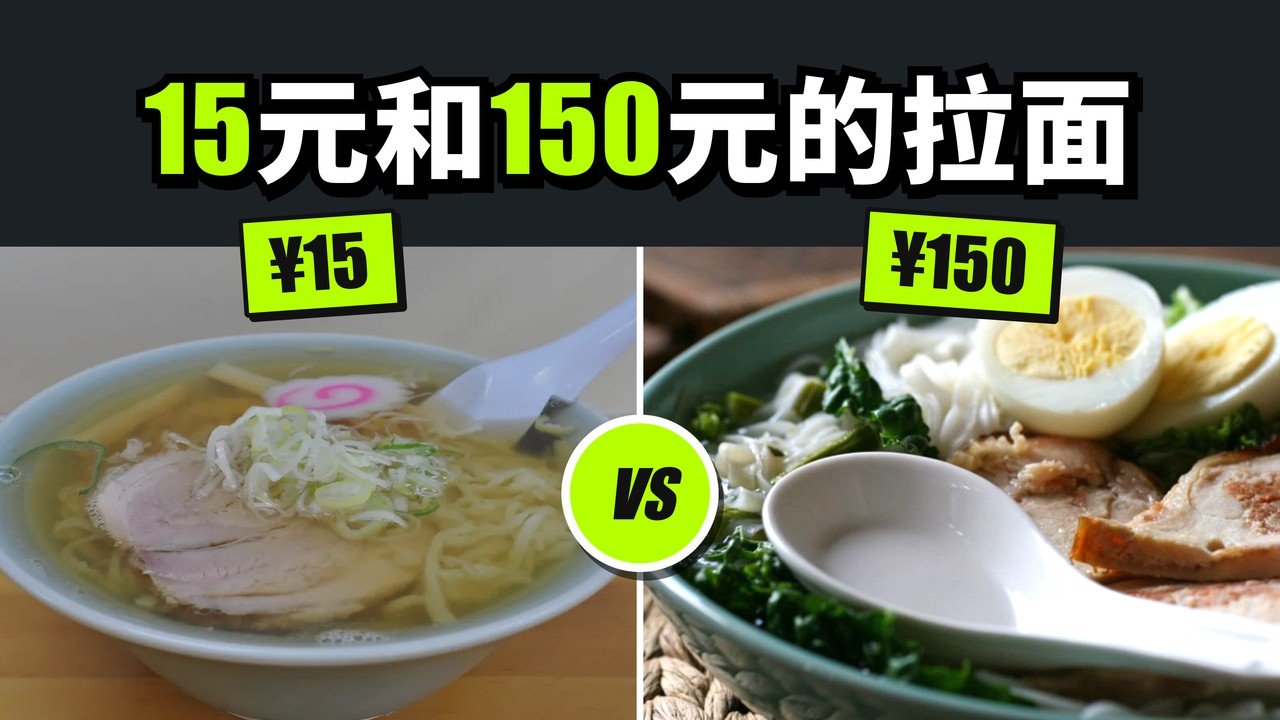
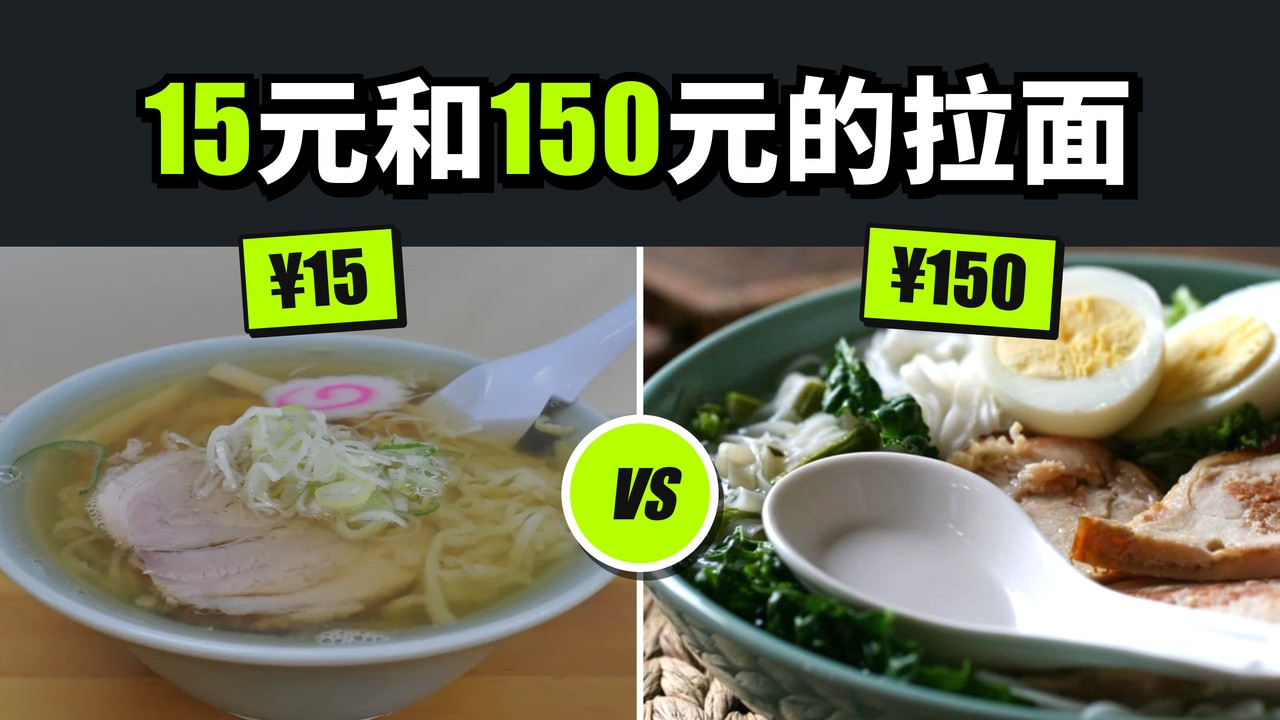
fix(genres): size labels for every script and clear the tilt
The label width estimate treated Korean and emoji as narrow Latin, so two
8-character Korean labels still overlapped. Every character outside ASCII
now counts as wide, emoji wider, and the widest Latin letters as a full em.
Tilted price tags sit low enough that their raised end clears the headline.
A Chromium test now measures the rendered labels for Korean, emoji, wide
Latin, and Chinese instead of trusting the estimate.

Changed region(s): [[0.6562, 0.275, 0.8438, 0.4889], [0.1875, 0.275, 0.3438, 0.4889]]

diff --git a/src/genres/genres.test.ts b/src/genres/genres.test.ts
@@ -343,6 +343,108 @@ describe('cover type rendering', () => {
         }
     }, 240_000);
 
+    // 标签字号是按字宽估出来的。估算对不对，只有真渲染出来量外框才知道：韩文、emoji、最宽的
+    // 西文字母、汉字都要落在自己那半边看得见的地方，两个标签不互压，也不压平台界面。
+    it('keeps rendered labels inside their panels for every script', async () => {
+        const browser = await chromium.launch({ headless: true });
+        try {
+            for (const kind of ['versus', 'before-after'] as const) {
+                for (const labels of [
+                    ['가나다라마바사아', '가나다라마바사아'],
+                    ['WWWWWWWW', '😀😀😀😀😀😀😀😀'],
+                    ['一二三四五六七八', '¥1,500,00'],
+                ] as [string, string][]) {
+                    const template = genreTemplate(kind, {
+                        text: '对比',
+                        fonts: FONTS,
+                        photos: [photo(paths[0] as string), photo(paths[1] as string)],
+                        labels,
+                    });
+                    const pages: { html: string; width: number; height: number }[] = [];
+                    const recording: CoverRenderer = {
+                        ...renderer,
+                        screenshot: async (page) => {
+                            pages.push(page);
+                            return renderer.screenshot(page);
+                        },
+                    };
+                    const targets = (['youtube', 'douyin', 'x'] as const).map((platform) => ({
+                        platform,
+                        outputPath: join(directory, `labels-${kind}-${platform}.png`),
+                    }));
+                    await composeCovers({
+                        renderer: recording,
+                        template,
+                        text: '对比',
+                        targets,
+                        scale: 1,
+                    });
+                    for (const [index, family] of (
+                        ['landscape', 'portrait', 'ultrawide'] as const
+                    ).entries()) {
+                        const recorded = pages[index] as {
+                            html: string;
+                            width: number;
+                            height: number;
+                        };
+                        const names = [targets[index]?.platform as PlatformName];
+                        const framed = {
+                            ...familyLayout(family),
+                            visibleArea: familyVisibleArea(family, names),
+                            clearArea: familyClearArea(family, names),
+                            coveredAreas: familyCoveredAreas(family, names),
+                        };
+                        const layout = {
+                            ...(template.layoutFor?.(framed) ?? framed),
+                            ...framed,
+                            textArea: (template.layoutFor?.(framed) ?? framed).textArea,
+                        };
+                        const { panels } = splitLabelRects(kind, layout, labels);
+                        const page = await browser.newPage({
+                            viewport: { width: recorded.width, height: recorded.height },
+                        });
+                        await page.setContent(recorded.html, { waitUntil: 'load' });
+                        const boxes = (await Promise.all(
+                            (await page.locator('.chip').all()).map((chip) => chip.boundingBox()),
+                        )) as Rect[];
+                        await page.close();
+                        const where = `${kind} ${family} ${labels.join('/')}`;
+                        expect(boxes, where).toHaveLength(2);
+                        boxes.forEach((box, side) => {
+                            const panel = panels[side] as Rect;
+                            const seen = framed.visibleArea;
+                            // 横向在自己那半边看得见的部分里，纵向在可见区里（标签本来就骑在标题带下沿），
+                            // 不压标题。
+                            expect(
+                                inside(box, {
+                                    x: Math.max(panel.x, seen.x),
+                                    y: seen.y,
+                                    width:
+                                        Math.min(panel.x + panel.width, seen.x + seen.width) -
+                                        Math.max(panel.x, seen.x),
+                                    height: seen.height,
+                                }),
+                                `${where} label ${side}: ${JSON.stringify(box)}`,
+                            ).toBe(true);
+                            expect(
+                                overlaps(box, layout.textArea),
+                                `${where} label ${side} headline`,
+                            ).toBe(false);
+                            for (const covered of framed.coveredAreas) {
+                                expect(overlaps(box, covered), `${where} label ${side} UI`).toBe(
+                                    false,
+                                );
+                            }
+                        });
+                        expect(overlaps(boxes[0] as Rect, boxes[1] as Rect), where).toBe(false);
+                    }
+                }
+            }
+        } finally {
+            await browser.close();
+        }
+    }, 300_000);
+
     it('escapes the headline and labels instead of running them as markup', () => {
         const template = genreTemplate('versus', {
             text: '<img src=x onerror=alert(1)>',

diff --git a/src/genres/split.ts b/src/genres/split.ts
@@ -69,9 +69,10 @@ const VERSUS: Readonly<Record<FamilyName, SplitGeometry>> = {
             { x: 960, y: 430, width: 960, height: 770 },
         ],
         badge: { x: 960, y: 800, size: 210 },
+        // 价签倾斜 4 度，最宽时一端会翘起约 30px，锚点比标题区下沿低出这一截。
         labels: [
-            { x: 480, y: 380, anchor: 'center' },
-            { x: 1440, y: 380, anchor: 'center' },
+            { x: 480, y: 404, anchor: 'center' },
+            { x: 1440, y: 404, anchor: 'center' },
         ],
         labelPx: 104,
     },
@@ -100,8 +101,8 @@ const VERSUS: Readonly<Record<FamilyName, SplitGeometry>> = {
         ],
         badge: { x: 960, y: 520, size: 150 },
         labels: [
-            { x: 480, y: 238, anchor: 'center' },
-            { x: 1440, y: 238, anchor: 'center' },
+            { x: 480, y: 254, anchor: 'center' },
+            { x: 1440, y: 254, anchor: 'center' },
         ],
         labelPx: 66,
     },
@@ -182,28 +183,52 @@ function geometryFor(layout: CoverLayout, table: Record<FamilyName, SplitGeometr
     };
 }
 
-// 标签的字宽（em）：汉字和全角字一个字宽，其余按 0.62（窄粗体的数字和字母更窄，按宽的算），
+// 标签的字宽（em），宁宽勿窄：CJK、韩文、假名、全角符号一个字宽，emoji 更宽，其他非 ASCII 字母
+// 按 0.8，ASCII 按粗体里的宽度（W、M 最宽）。窄粗体实际更窄，估宽只会让标签小一点，不会压住。
 // 再加左右内边距 0.72em，描边和硬投影共 0.21em。高度按 1.6em 估（行高、内边距、描边、倾斜）。
 const CHIP_PAD_EM = 0.93;
 const CHIP_HEIGHT_EM = 1.6;
-const WIDE_CHAR =
-    /[\p{Script=Han}\p{Script=Hiragana}\p{Script=Katakana}\u3000-\u303f\uff00-\uffef]/u;
+const EMOJI = /\p{Extended_Pictographic}/u;
 
-export function chipWidthEm(text: string): number {
-    return (
-        Array.from(text).reduce((sum, char) => sum + (WIDE_CHAR.test(char) ? 1 : 0.62), 0) +
-        CHIP_PAD_EM
-    );
+function charWidthEm(char: string): number {
+    const code = char.codePointAt(0) ?? 0;
+    if (EMOJI.test(char)) {
+        return 1.3;
+    }
+    if (code >= 0x1100) {
+        return 1;
+    }
+    if (code > 0x7e) {
+        return 0.8;
+    }
+    if ('WMmw@%'.includes(char)) {
+        return 1;
+    }
+    if (/[A-Z0-9#$&¥]/.test(char)) {
+        return 0.78;
+    }
+    if (/[a-z]/.test(char)) {
+        return 0.66;
+    }
+    return 0.45;
 }
 
-/** 标签在这个字号下大约占的框：居中的以锚点为中，靠左的从锚点起 */
-function chipRect(anchor: ChipAnchor, text: string, fontPx: number): Rect {
+export function chipWidthEm(text: string): number {
+    return Array.from(text).reduce((sum, char) => sum + charWidthEm(char), 0) + CHIP_PAD_EM;
+}
+
+// 档位对比的价签左右各倾斜这么多度。
+const LABEL_TILT = 4;
+
+/** 标签在这个字号下大约占的框：居中的以锚点为中，靠左的从锚点起，倾斜翘起的两端也算上 */
+function chipRect(anchor: ChipAnchor, text: string, fontPx: number, tilt: number): Rect {
     const width = chipWidthEm(text) * fontPx;
+    const lift = (width / 2) * Math.sin((Math.abs(tilt) * Math.PI) / 180);
     return {
         x: anchor.anchor === 'center' ? anchor.x - width / 2 : anchor.x,
-        y: anchor.y,
+        y: anchor.y - lift,
         width,
-        height: CHIP_HEIGHT_EM * fontPx,
+        height: CHIP_HEIGHT_EM * fontPx + lift * 2,
     };
 }
 
@@ -259,7 +284,7 @@ export function splitLabelRects(
     const fontPx = labelFontPx(geometry, layout, labels);
     return {
         rects: geometry.labels.map((anchor, index) =>
-            chipRect(anchor, labels[index] as string, fontPx),
+            chipRect(anchor, labels[index] as string, fontPx, kind === 'versus' ? LABEL_TILT : 0),
         ),
         panels: geometry.panels,
         ...(geometry.badge === undefined
@@ -477,7 +502,7 @@ function splitTemplate(request: SplitRequest, kind: 'versus' | 'before-after'): 
                 background: kind === 'versus' || second ? scheme.type.accent : '#FFFFFF',
                 ink: scheme.type.accentInk ?? '#111111',
                 edge: '#111111',
-                ...(kind === 'versus' ? { tilt: second ? 4 : -4 } : {}),
+                ...(kind === 'versus' ? { tilt: second ? LABEL_TILT : -LABEL_TILT } : {}),
                 fontFamily: labelFont.stack,
             };
         });
